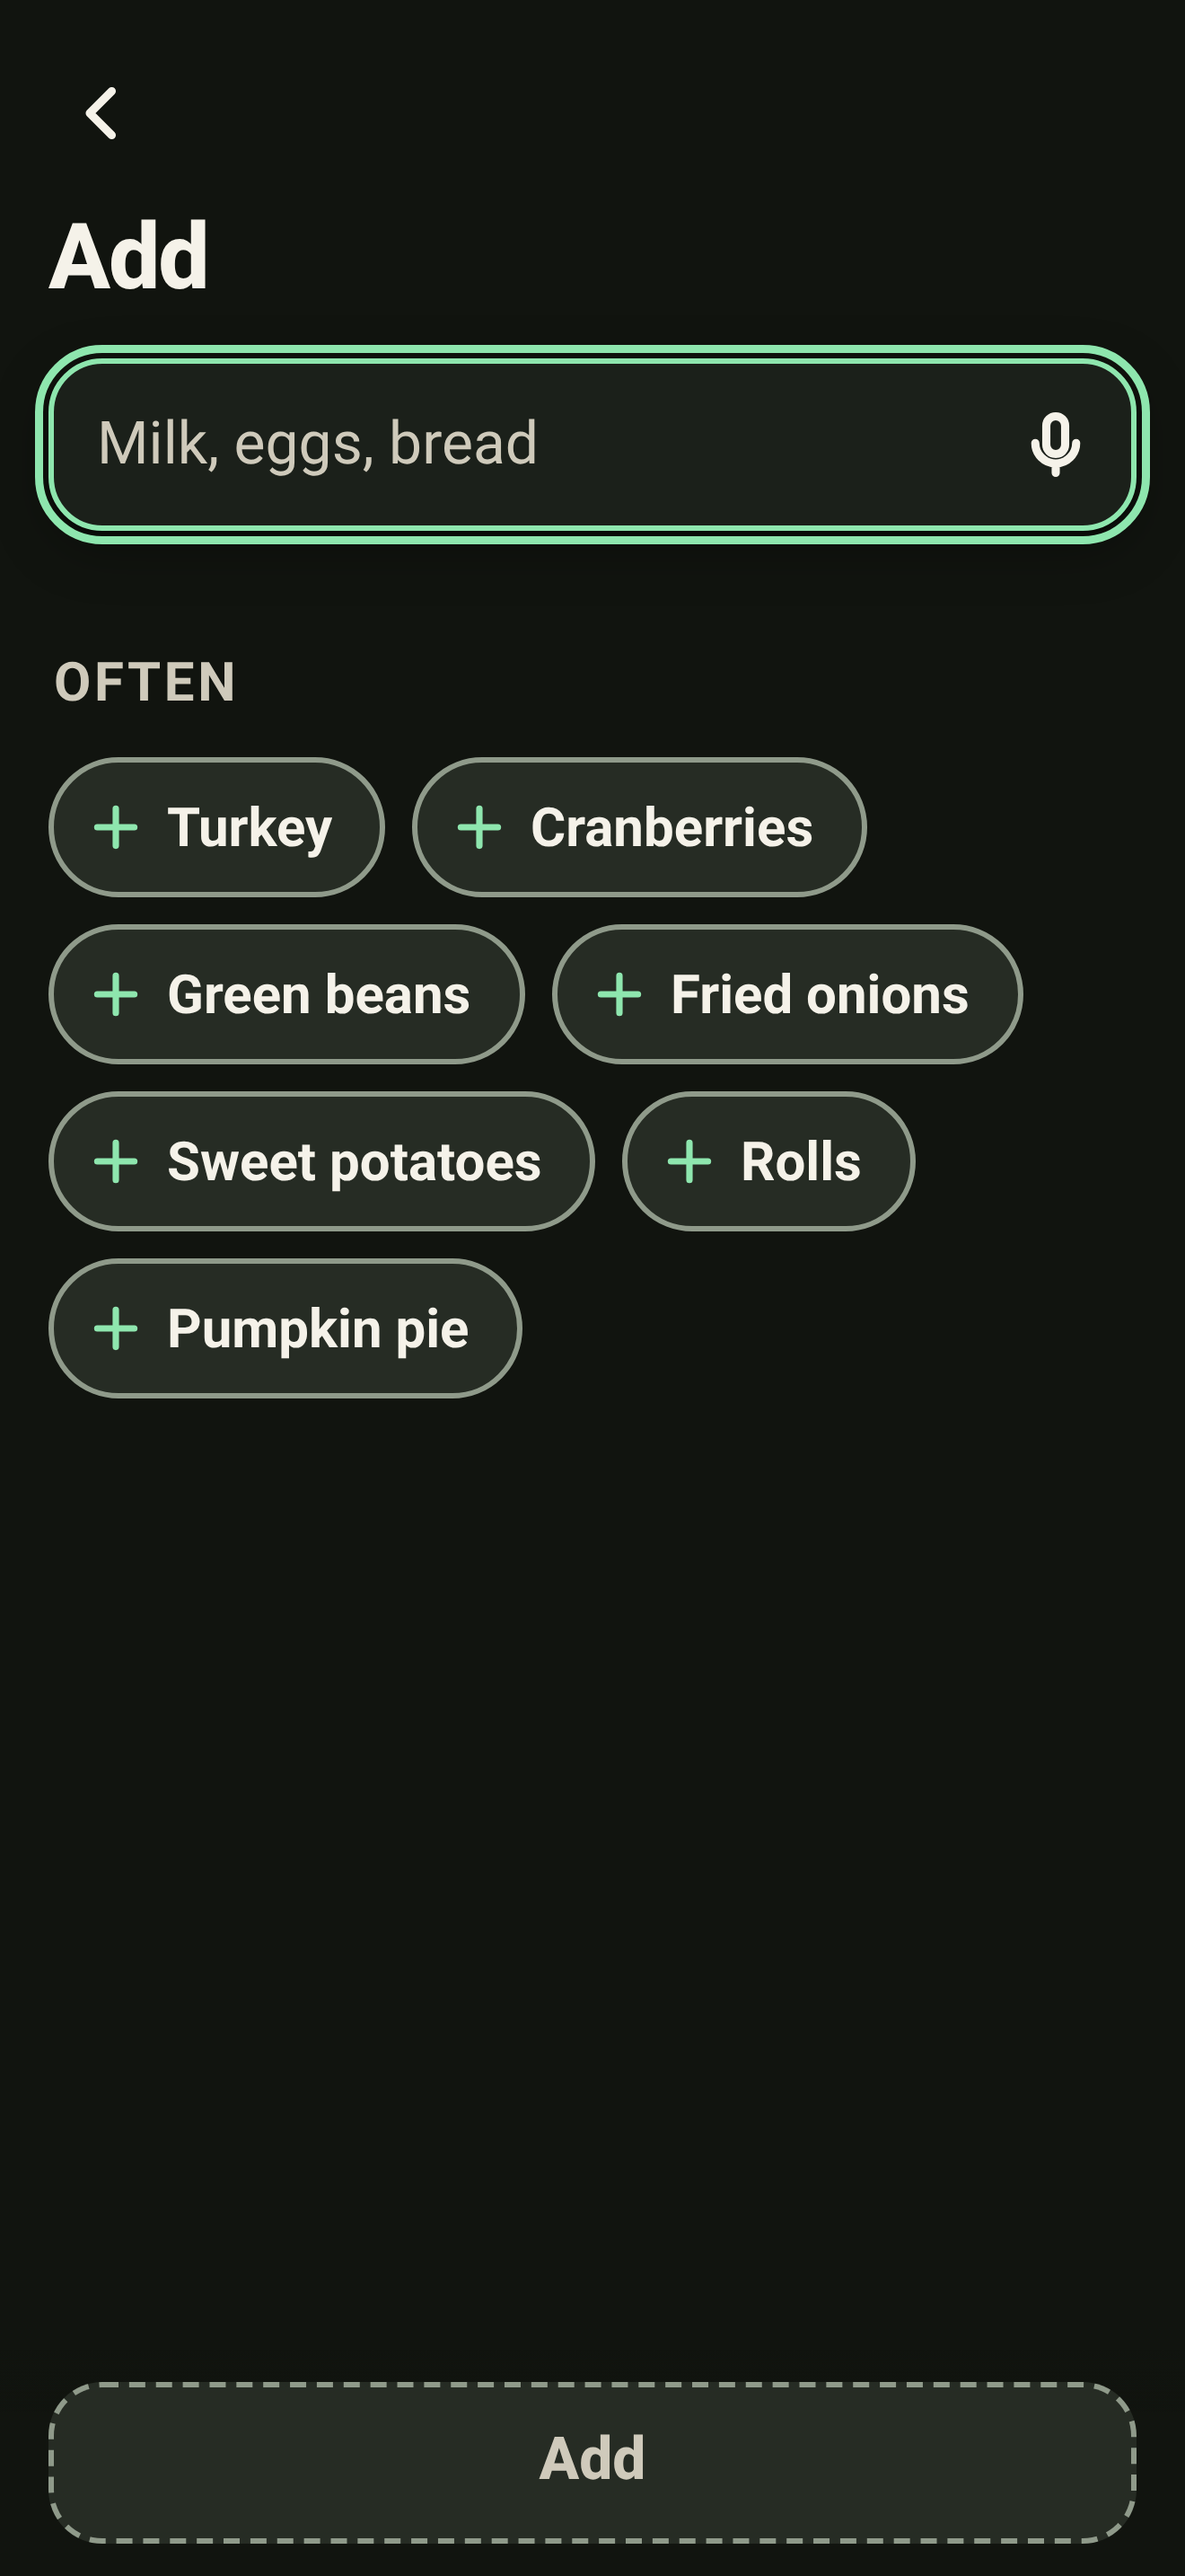
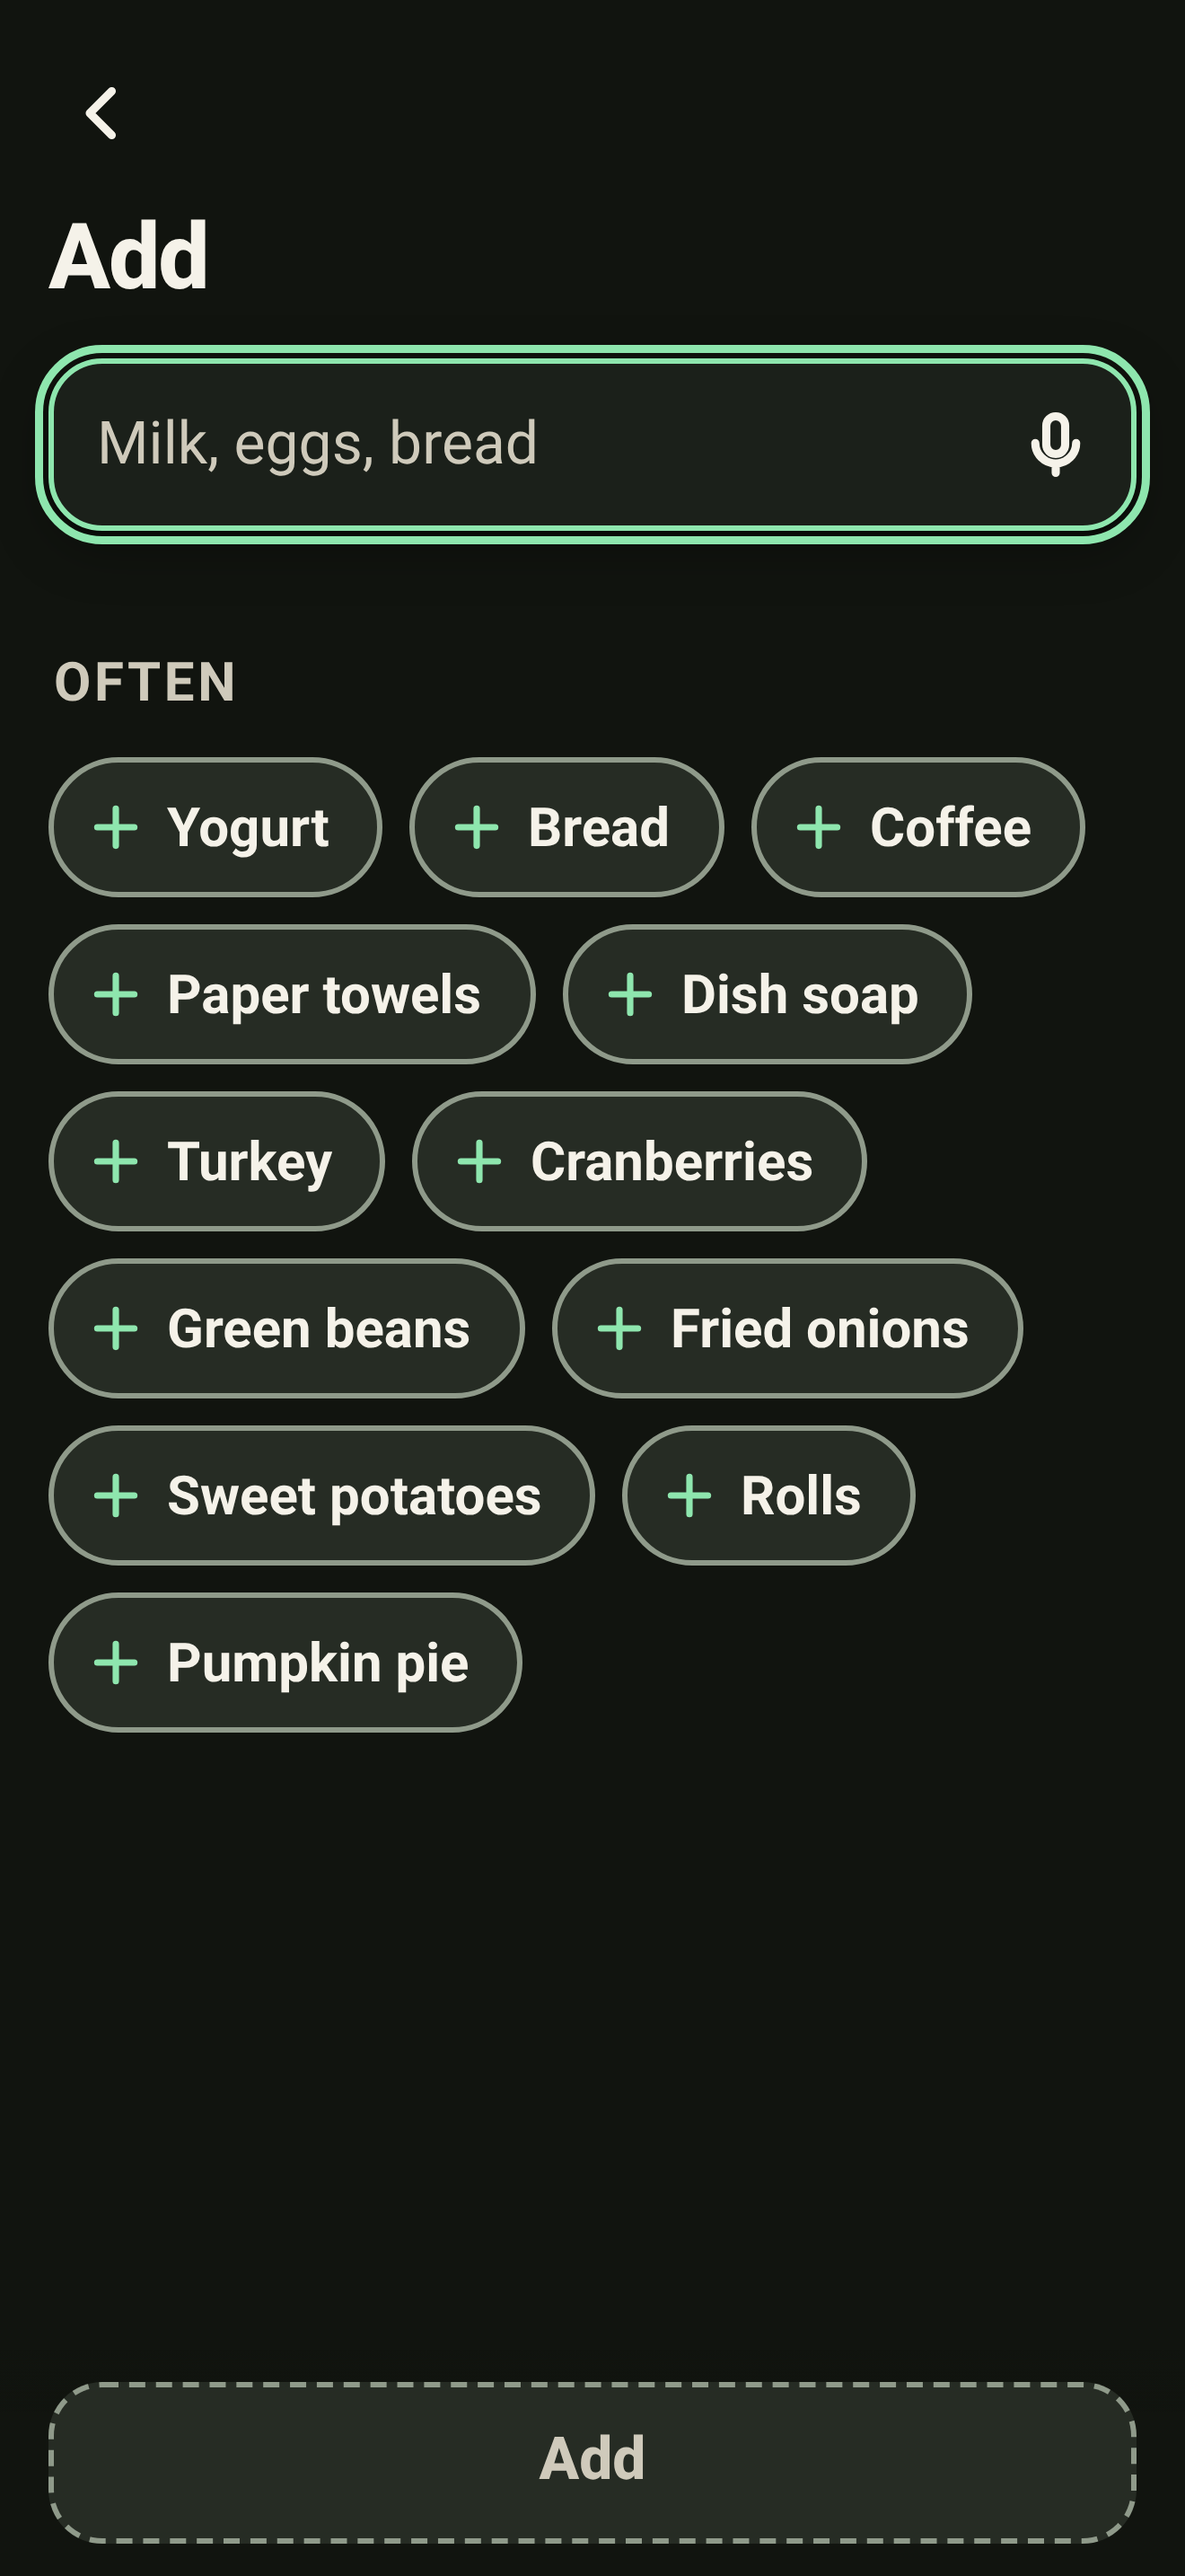
Screenshots: clean sample data, no overdue

diff --git a/appstore/shots.py b/appstore/shots.py
@@ -4,8 +4,10 @@ B='http://localhost:8765/'
 SEED="""async()=>{const L=await import('./logic.js');const st=await import('./store.js');let S=L.emptyState();
 const add=(n,ds)=>{for(const d of ds)S.history.push({k:L.keyOf(n),n,d});L.ensureItem(S,n);};
 const wk=(start,step,count)=>{const o=[];let t=new Date(start+'T12:00:00');for(let i=0;i<count;i++){o.push(t.toISOString().slice(0,10));t=new Date(t.getTime()+step*864e5);}return o;};
-add('Milk',wk('2026-08-03',7,15));add('Eggs',wk('2026-08-05',10,10));add('Bread',wk('2026-08-04',6,17));add('Bananas',wk('2026-08-06',5,20));
-add('Coffee',wk('2026-07-20',21,5));add('Yogurt',wk('2026-08-10',8,12));add('Paper towels',wk('2026-06-01',30,5));add('Dish soap',wk('2026-05-15',45,4));
+// back-dated so every recurring item is due today or later (no Overdue labels) on Nov 16, 2026
+const back=(last,step,count)=>{const o=[];let t=new Date(last+'T12:00:00');for(let i=0;i<count;i++){o.unshift(t.toISOString().slice(0,10));t=new Date(t.getTime()-step*864e5);}return o;};
+add('Milk',back('2026-11-10',7,15));add('Eggs',back('2026-11-07',10,10));add('Bread',back('2026-11-13',6,17));add('Bananas',back('2026-11-12',5,20));
+add('Coffee',back('2026-11-03',21,5));add('Yogurt',back('2026-11-15',8,12));add('Paper towels',back('2026-11-01',30,5));add('Dish soap',back('2026-10-20',45,4));
 for(const n of ['Turkey','Cranberries','Green beans','Fried onions','Sweet potatoes','Rolls','Pumpkin pie'])add(n,['2025-11-24']);
 for(const it of S.items)L.recompute(S,it);
 L.addSet(S,'Thanksgiving casserole',['Green beans','Fried onions','Cream of mushroom soup'],'thanksgiving');
@@ -21,7 +23,7 @@ with sync_playwright() as p:
     for i,(h,name) in enumerate([('#/home','home'),('#/add','add'),('#/memory','memory'),('#/sets','sets')]):
       pg.goto(B+h);pg.wait_for_timeout(700);pg.screenshot(path=f'appstore/screenshots/{i+1}-{name}-{theme}.png')
     pg.goto(B+'#/home');pg.wait_for_timeout(500)
-    pg.goto(B+'#/offer/h:thanksgiving:2026');pg.wait_for_timeout(700);pg.screenshot(path=f'appstore/screenshots/6-thanksgiving-{theme}.png')
+    pg.goto(B+'#/offer/h:thanksgiving:2026');pg.wait_for_timeout(700);pg.screenshot(path=f'appstore/screenshots/5-thanksgiving-{theme}.png')
     mid=pg.evaluate("async()=>{const st=await import('./store.js');const S=await st.get('state');return S.items.find(i=>i.name=='Milk').id}")
-    pg.goto(B+'#/item/'+mid);pg.wait_for_timeout(700);pg.screenshot(path=f'appstore/screenshots/7-milk-recurring-{theme}.png')
+    pg.goto(B+'#/item/'+mid);pg.wait_for_timeout(700);pg.screenshot(path=f'appstore/screenshots/6-milk-recurring-{theme}.png')
     c.close()
